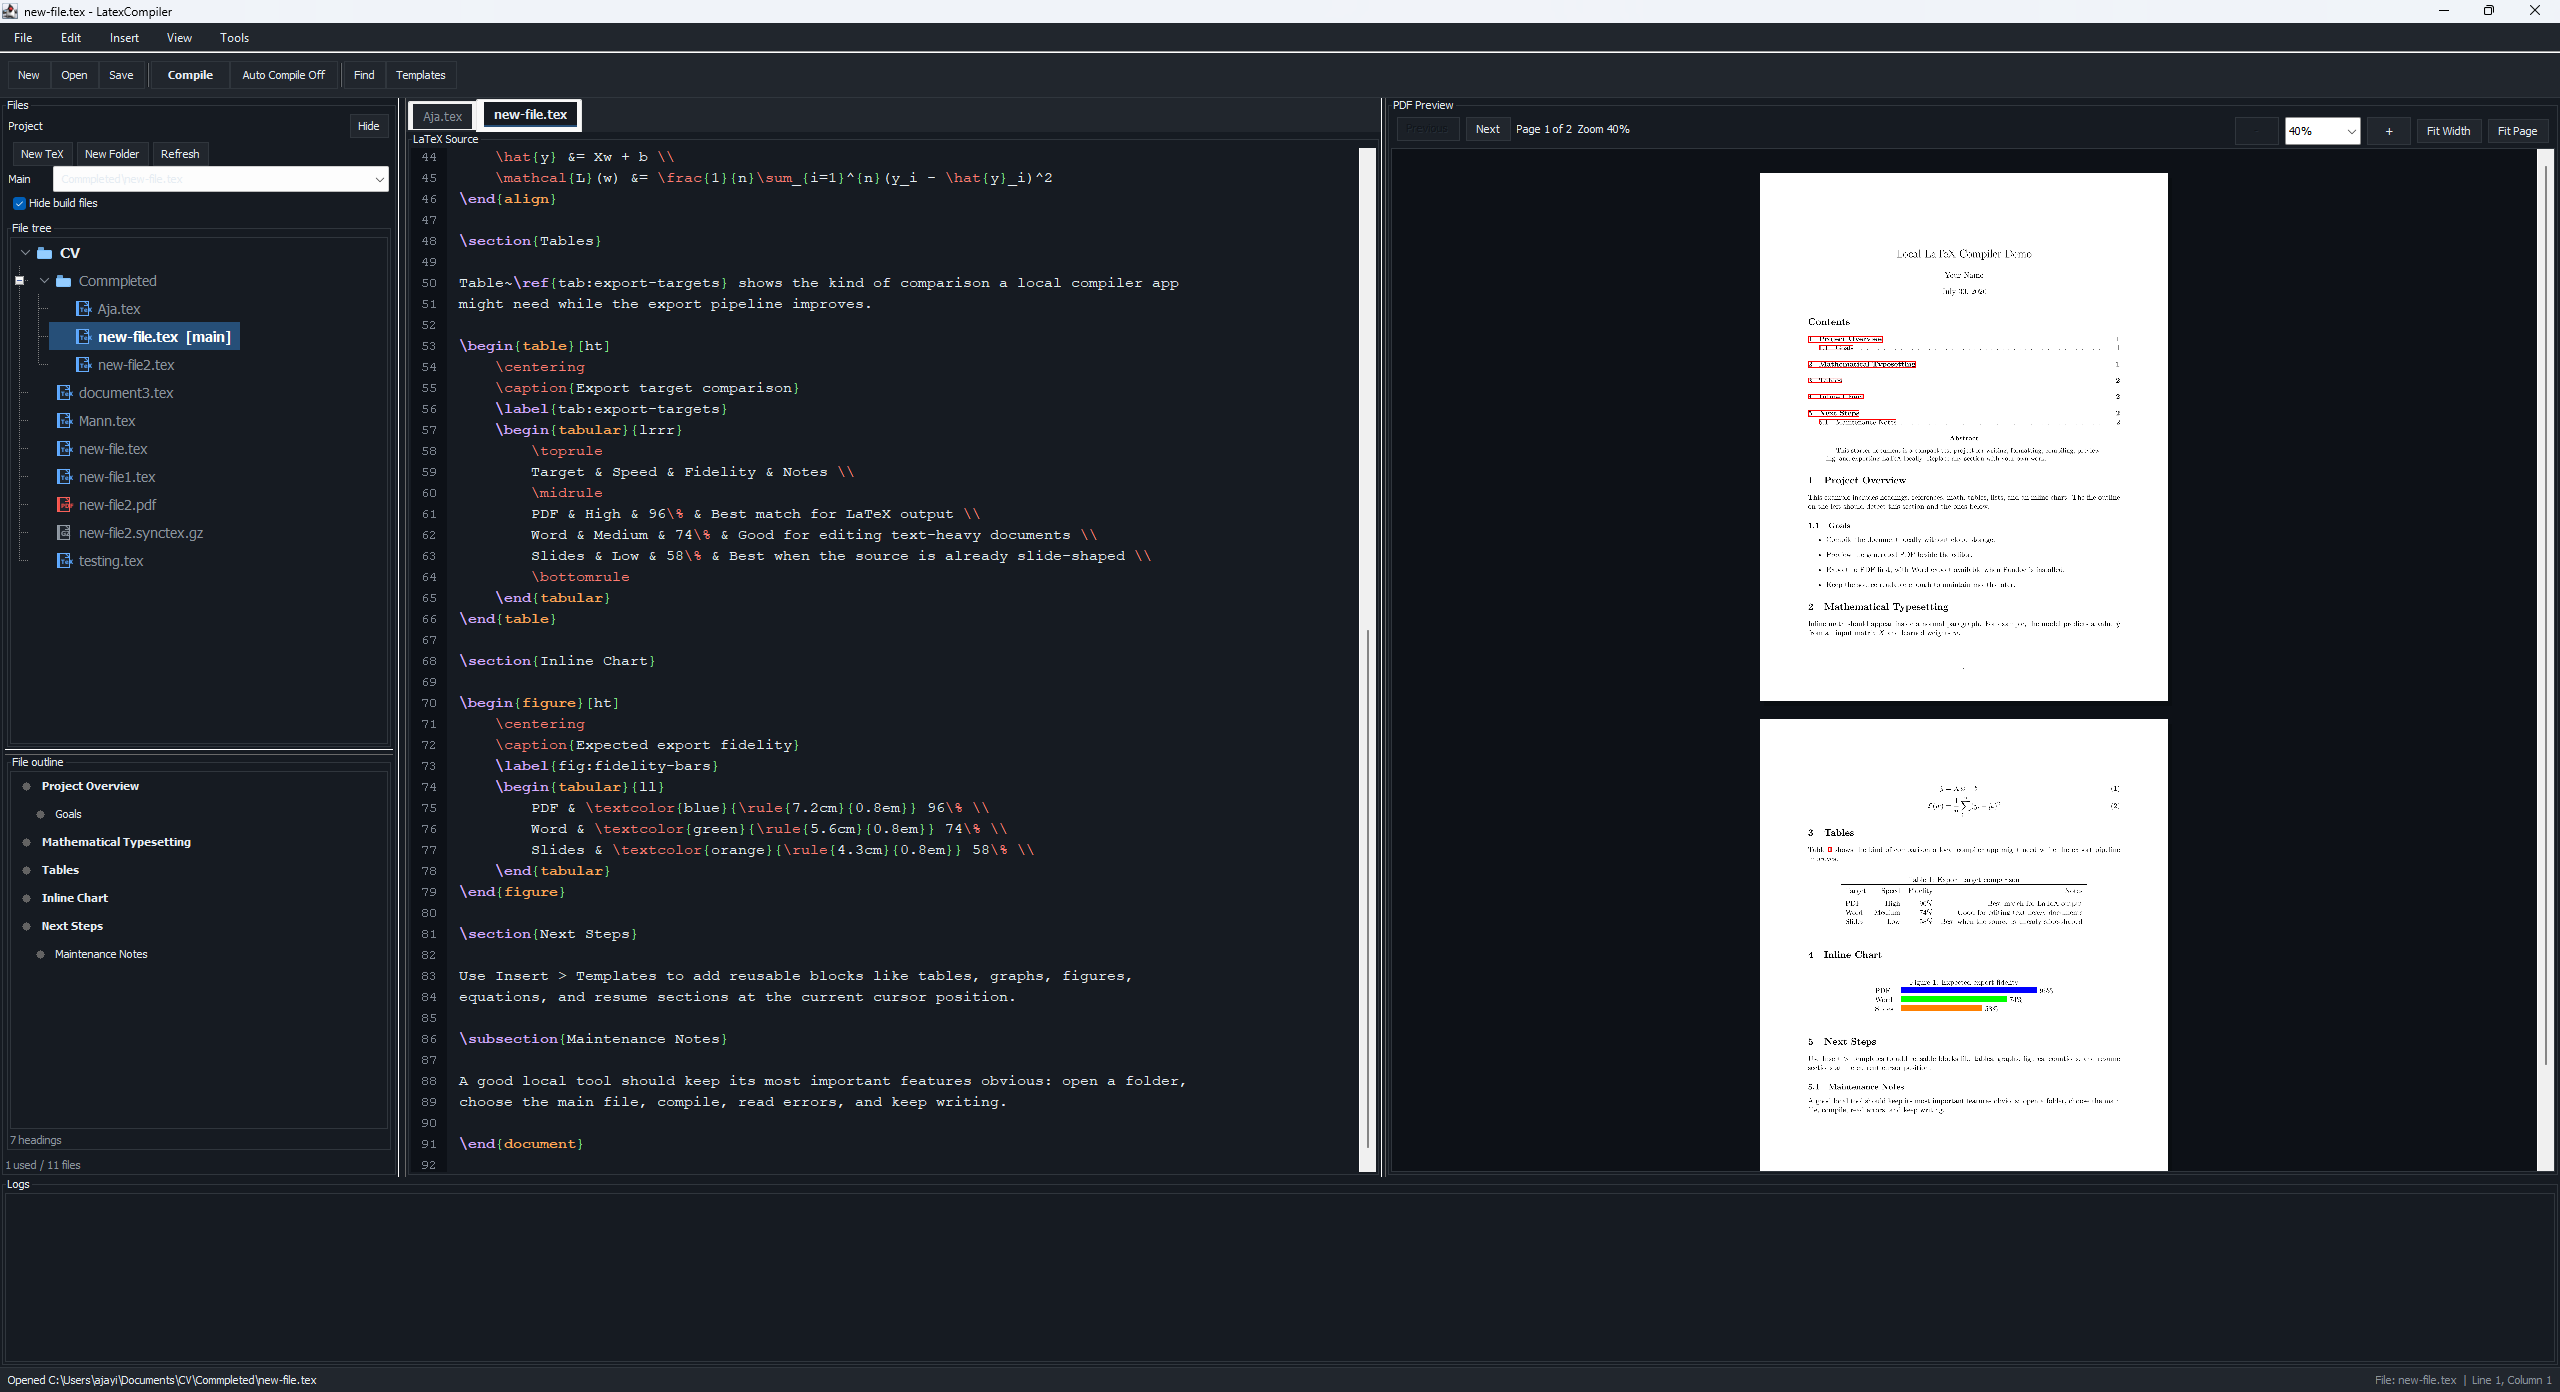
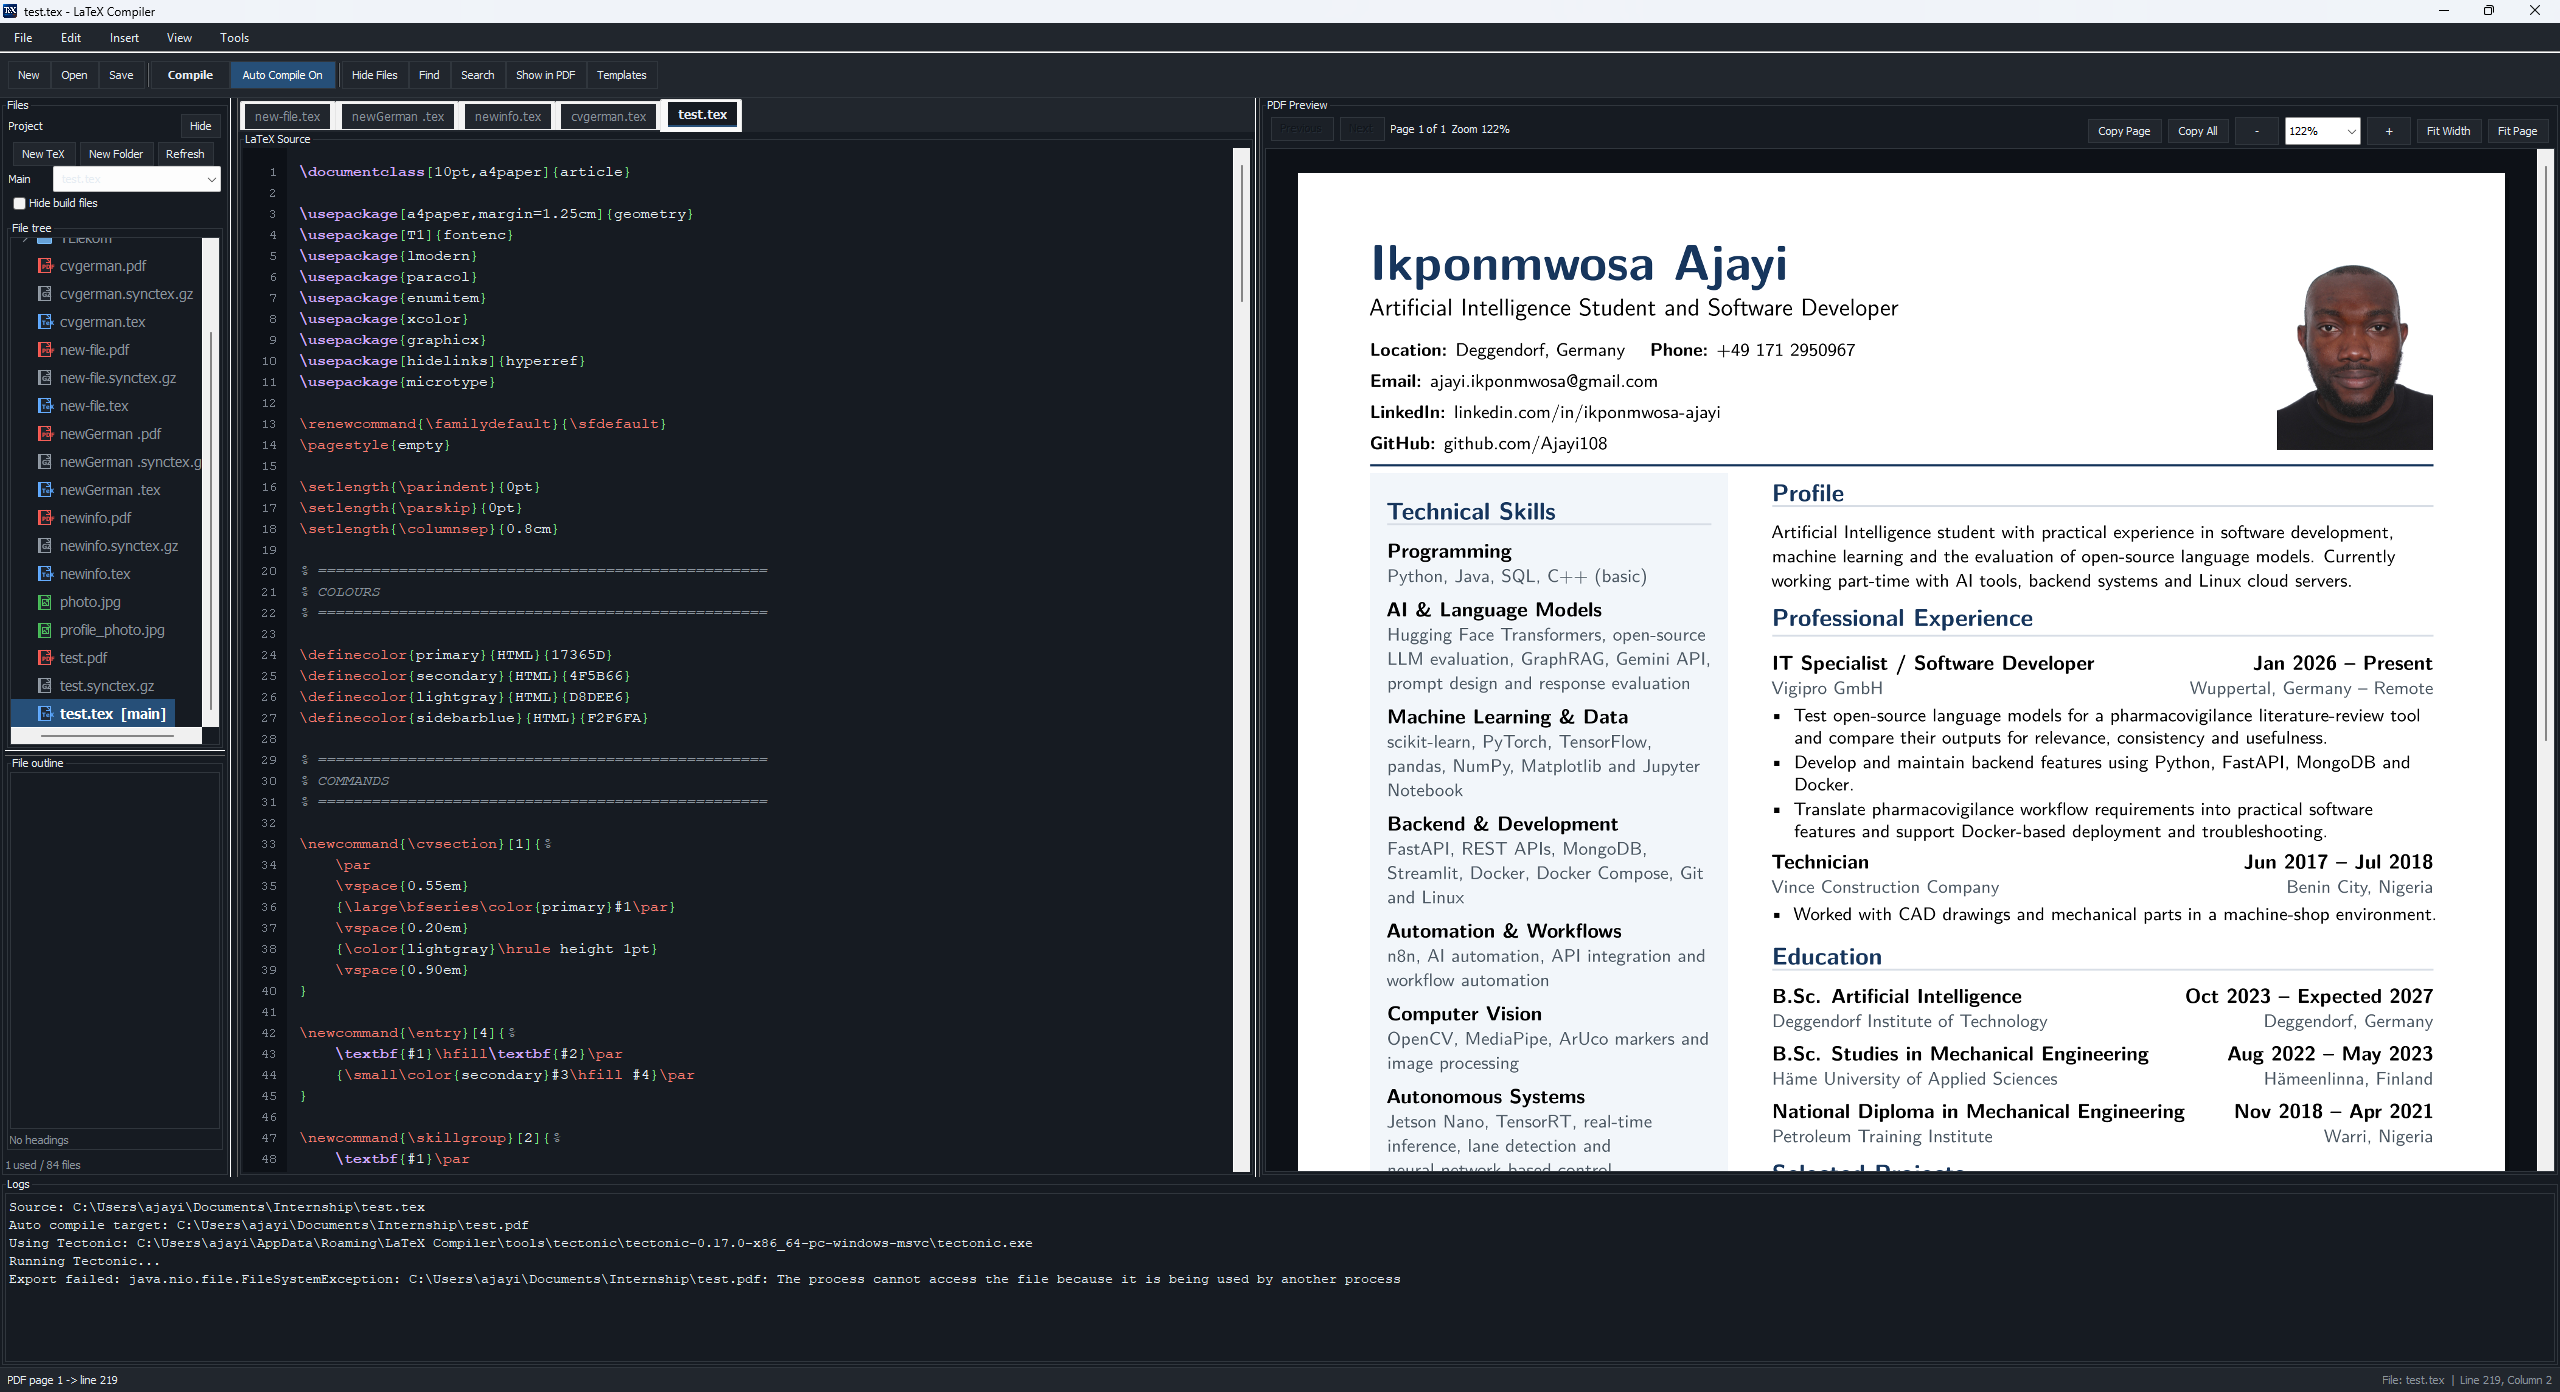
Refresh README preview and usage notes

diff --git a/README.md b/README.md
@@ -24,14 +24,18 @@ The app is designed so end users install only the app. It can use bundled tools 
 - Create, rename, move, copy, and delete project files from the file panel
 - Select a main `.tex` file for multi-file projects
 - Find and replace source text with `Ctrl+F` and `Ctrl+H`
+- Search across the opened project with `Ctrl+Shift+F`
 - Click LaTeX log line references to jump back to the editor
+- Jump from the current source line to the matching PDF page with `Ctrl+Shift+J`
+- Show grouped compiler issues with error/warning colors, line jumps, hints, and source highlighting
 - Auto-refresh the file panel when project files change outside the app
 - Switch between system, light, and dark mode from the View menu
+- Save crash logs locally and open a prefilled GitHub bug report from the Tools menu
 - Show or hide export logs
 - Export to Word `.docx` with Pandoc
 - Shows export logs inside the app
 - Prompts before downloading missing command-line tools
-- Shows Java, Tectonic, Pandoc, project, and compile settings inside the app
+- Shows Java, Tectonic, Pandoc, project, output folder, and compile settings inside the app
 - Opens generated exports with the system viewer
 
 ## Tool Strategy
@@ -85,6 +89,16 @@ Or compile a jar with:
 .\scripts\build-jar.ps1
 ```
 
+## Crash Logs and Bug Reports
+
+Unexpected app crashes are written to the app data logs folder:
+
+```text
+%APPDATA%\LaTeX Compiler\logs\
+```
+
+Use `Tools > Report Bug...` to open a prefilled GitHub issue. The report includes basic app/system context, and you can choose whether to include the latest crash log because it may contain local file paths.
+
 ## Build
 
 ```powershell
@@ -93,13 +107,19 @@ gradle clean build
 
 ## Create a Windows Installer
 
-Install JDK 21, then run:
+Install JDK 21, close any running copy of LaTeX Compiler, then run:
 
 ```powershell
 .\scripts\package-windows.ps1
 ```
 
 The installer output is written to `installer/`.
+
+By default the script creates a per-user installer to avoid requiring admin rights for normal installs. Use `-MachineInstall` if you intentionally want a machine-wide installer.
+
+The packaging script stages every runtime jar in `build/jpackage-input` before calling `jpackage`. This keeps dependency jars such as PDFBox beside the app jar in the installed application.
+
+Unsigned local installers may still be blocked or warned by Windows Smart App Control. That is expected for personal builds. A public release should eventually be code-signed to build Windows reputation and reduce those warnings.
 
 ## GitHub Releases
 
